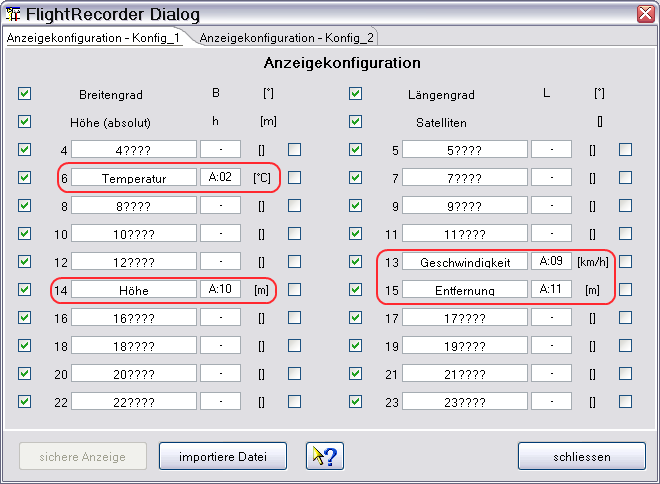
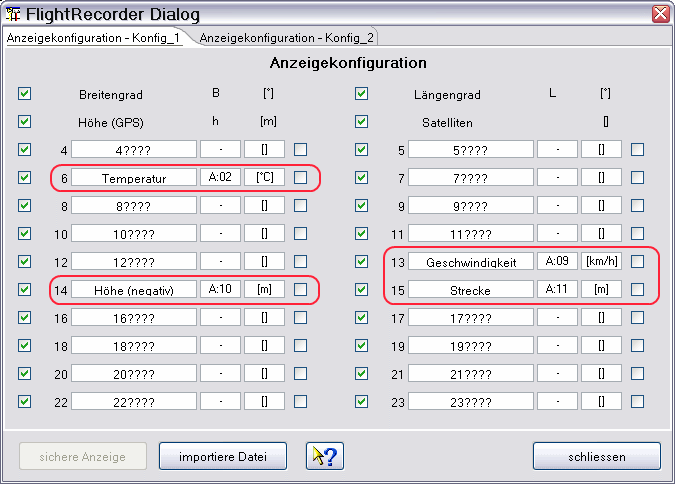
add FlightRecorder initial support

diff --git a/FlightRecorder/src/help/de/HelpInfo.html b/FlightRecorder/src/help/de/HelpInfo.html
@@ -33,6 +33,9 @@
 	<H2><FONT FACE="Arial"><FONT SIZE=4><I>Multiplex FlightRecorder Ger&auml;tedialog</I></FONT></FONT></H2>
 </DIV>
 <P>Der gezeigte Ger&auml;tedialog dient zur Konfiguration der Anzeige der ausgelesenen Daten.
+Es k&ouml;nnen die Messwertnamen und Messwertsymbole angepasst werden. 
+Die Messwerteinheiten sind ebenfalls &auml;nderbar, es ist aber wenig sinnvoll hier etwas anzufassen, wenn nicht auch ein passender Messwertfaktor angelegt wird.
+Man muss daran denken, dass die Einheiten aus dem Aufzeichnungslog selbst kommen und sie beim Auslesen &uuml;berschrieben wird.
 Nicht selektierte Messgr&ouml;&szlig;en erscheinen dadurch nicht in der grafischen Anzeige. 
 Dadurch wird die &Uuml;bersichtlichkeit stark erh&ouml;ht., 
 Kurven, wir Längengrad und Breitengrad, die zweidimensional dargestellt wenig Sinn ergeben, k&ouml;nnen ausgeblendet werden.
@@ -45,16 +48,13 @@ Exportmöglichkeiten eingeblendet werden können. So z. B. als Google Earth Date
 N&auml;here Beschreibung dazu siehe <A HREF="../../../help/de/HelpInfo_36.html">Toolbar -> Google Earth</A>.
 </P>
 <P ALIGN=CENTER><IMG SRC="HelpInfo_Bild_1.png" NAME="HelpInfo_Bild_1" ALT="HelpInfo_Bild_1"></P>
-<P><B>Hinweis: </B>Ist die Anzeige erst einmal konfiguriert, wird diese Anzeigekonfiguration auch angewendet, 
-wenn &uuml;ber die Toolbar mittels "importiere Daten" in der Toolsleiste der Dateidialog geöffnet und eine Datei eingelesen wird.
-</P>
 <P>
 Multiplex Sensoren werden über Adressen konfiguriert, die Adresse erscheint als Messwertsymbol, die Einheiten werden entsprechend übernommen.
 Der Dialog erlaub zwar die Änderung der Symbole, das ist aber nicht nötig.
 Die Namen müssen allerdings vergeben werden.
 Ist diese Zuordnung erledigt, und die Sensoradressen unverändert, bleiben die Messwertnamen erhalten.
-Es gibt 2 vorangelegte Messwertkonfigurationen, die für 2 verschiedene Sensorsets benutzt werden können.
-&Uuml;ber den Ge&auml;teeigenschafteneditor können auch nachträglich weitere Konfigurationen hinzugefügt werden, sollte das einmal erforderlichsein.
+Es gibt 2 vorbereitete Messwertkonfigurationen, die für 2 verschiedene Sensorsets benutzt werden können.
+&Uuml;ber den Ge&auml;teeigenschafteneditor können auch nachträglich weitere Konfigurationen hinzugefügt werden, sollte das einmal erforderlich sein.
 </P>
 <P>Auf der rechten Rand der Anzeigenkonfiguration befindet sich ein zus&auml;tzlicher Schalter, der eine halbautomatische Synchronisation der Skalen erm&ouml;glicht. 
 Wird hier selektiert wird auf Namensgleichheit gepr&uuml;ft, bei entsprechender &Uuml;bereinstimmung wird in der Ger&auml;tekonfigurationsdatei bei den Messwerten die entsprechende
@@ -64,11 +64,11 @@ Durch Skalensynchronisation wird die verf&uuml;gbare Anzeigefl&auml;che vergr&ou
 <P>
 Sinnvoll ist es sich die Sensorenreihenfolge und deren Verwendungszweck (Beispiel: Spannung/Strom/Kapazit&auml;t - Antriebsakku) zu &uuml;berlegen
 bevor man Daten damit aufnimmt. 
-Namen der Kurven sollten m&ouml;glichst eindeutig sein, Beispiel StromAntrieb, StromRx, SpannungAntrieb, SpannungRx.
+Namen der Kurven sollten m&ouml;glichst eindeutig sein, Beispiel Strom Antrieb, Strom Rx, Spannung Antrieb, Spannung Rx.
 Die Kurvennamen sollen so gew&auml;hlt sein, dass im Falle eine gew&uuml;nschten Skalensynchronisation, die Namen mit den gleichen Wort anfangen 
-wie die Kurve auf die synchronisiert werden soll, Beispiel Strom synchronisiert mit <I>Storm</I>Antrieb, <I>Strom</I>Rx, <I>Strom</I>Antrieb2).
+wie die Kurve auf die synchronisiert werden soll, Beispiel Strom synchronisiert mit <I>Storm</I> Antrieb, <I>Strom</I> Rx, <I>Strom</I> Antrieb 2).
 Darauf basiert die halbautomatische Synchronisation. 
-&Uuml;ber den Ger&auml;teeigenschafteneditor kann man bei belibigen Messkurven eine Skalensynchronisation konfigurieren.
+&Uuml;ber den Ger&auml;teeigenschafteneditor kann man bei beliebigen Messkurven eine Skalensynchronisation konfigurieren.
 Sinn macht das Ganze aber nur, wenn die Wertebereiche in zusammenpassen. 
 Stimmen die Messwerte aus den Sensoren mit den Kurvennamen und Einheiten &uuml;berien kann mit der Checkbox auf der rechten Seite auf Skalensynchronisation gepr&uuml;ft werden.
 Abschliessend die Konfiguration nochmals sichern.
@@ -77,7 +77,7 @@ Um die vollen Möglichkeiten des DataExplorers mit den statistischen Auswertunge
 </P>
 <P><B>Hinweis: </B>Werden Messwertnamen ge&auml;ndert f&uuml;hrt das in der Ger&auml;tekonfigurationsdatei zu einer &Auml;nderung.
 &Auml;ndert sich in einer sp&auml;teren DataExplorer Version das Ger&auml;tekonfigurationsdateischema (DeviceProperties_Vxy.xsd), 
-wird eine Sichereung aller vorhandenen Ger&auml;tekonfigurationsdateien angelegt (Devices_Vxy-1.xsd) und geht nicht verloren.
+wird eine Sicherung aller vorhandenen Ger&auml;tekonfigurationsdateien angelegt (Devices_Vxy-1) und geht nicht verloren.
 Die veraltete Ger&auml;tekonfigurationsdatei kann dann als Vorlage f&uuml;r die neue verwendet werden.
 </P>
 </BODY>

diff --git a/FlightRecorder/src/help/en/HelpInfo.html b/FlightRecorder/src/help/en/HelpInfo.html
@@ -29,7 +29,11 @@
 <DIV TYPE=HEADER>
 	<H2><A NAME="Introduction"></A><FONT FACE="Arial"><FONT SIZE=4><I>Multiplex FlightRecorder Dialog</I></FONT></FONT></H2>
 </DIV>
-<P>The below device dialog should be used to configure the visualization of measurements.
+<P>
+The below device dialog should be used to configure the visualization of measurements.
+It is possible to update measurement names and symbols. 
+Even if the measurement units are editable it makes less sense to do without adding a measurement factor in respect to the change.
+The units are contained within the log data and get overwritten while reading.
 Unchecked measurement will not be displayed. 
 This will lead to a more clear representation, curves which are hard to be interpreted in two dimensional way, may be blanked out.
 It is possible to import data files using the 'import data' button as well.
@@ -42,8 +46,6 @@ This files can be exported using the file menu or directly launched to an instal
 How to do so, refer to <A HREF="../../../help/en/HelpInfo_36.html">Toolbar -> Google Earth</A>.
 </P>
 <P ALIGN=CENTER><IMG SRC="HelpInfo_Image_1.png" NAME="HelpInfo_Image_1" ALT="HelpInfo_Image_1"></P>
-<P><B>Hint: </B>The visualization configuration will be applied as well as it is closed in cases where the tool bar button is used to import the data.
-</P>
 <P>
 Multiplex sensors are to be configured by addresses, the configured address is displayed as measurement symbol, the units are overtaken.
 The dialog allows changing the symbols, but this is not required and the symbols are overwritten with the next data import.
